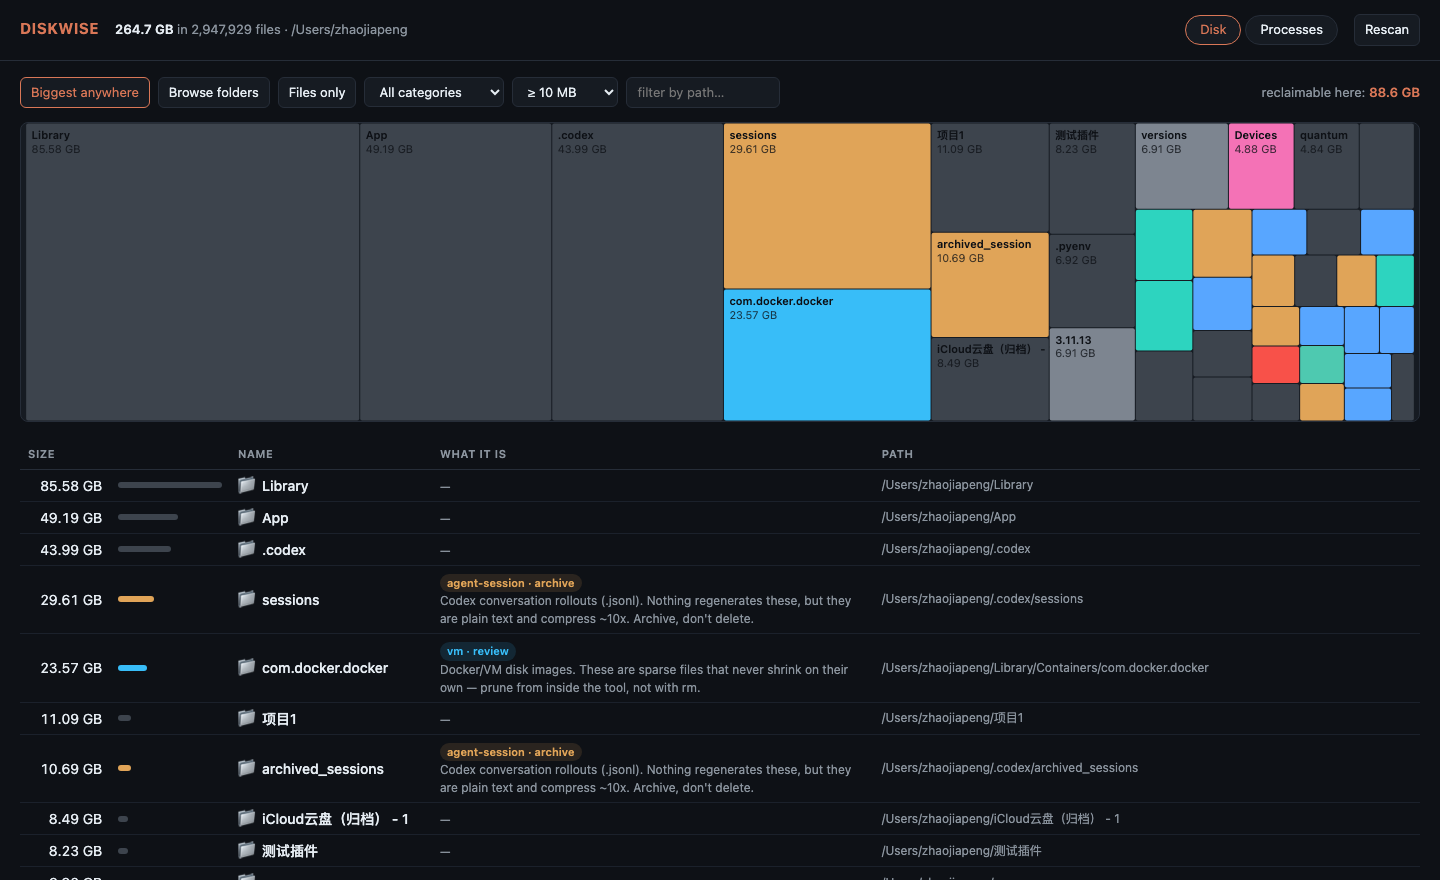
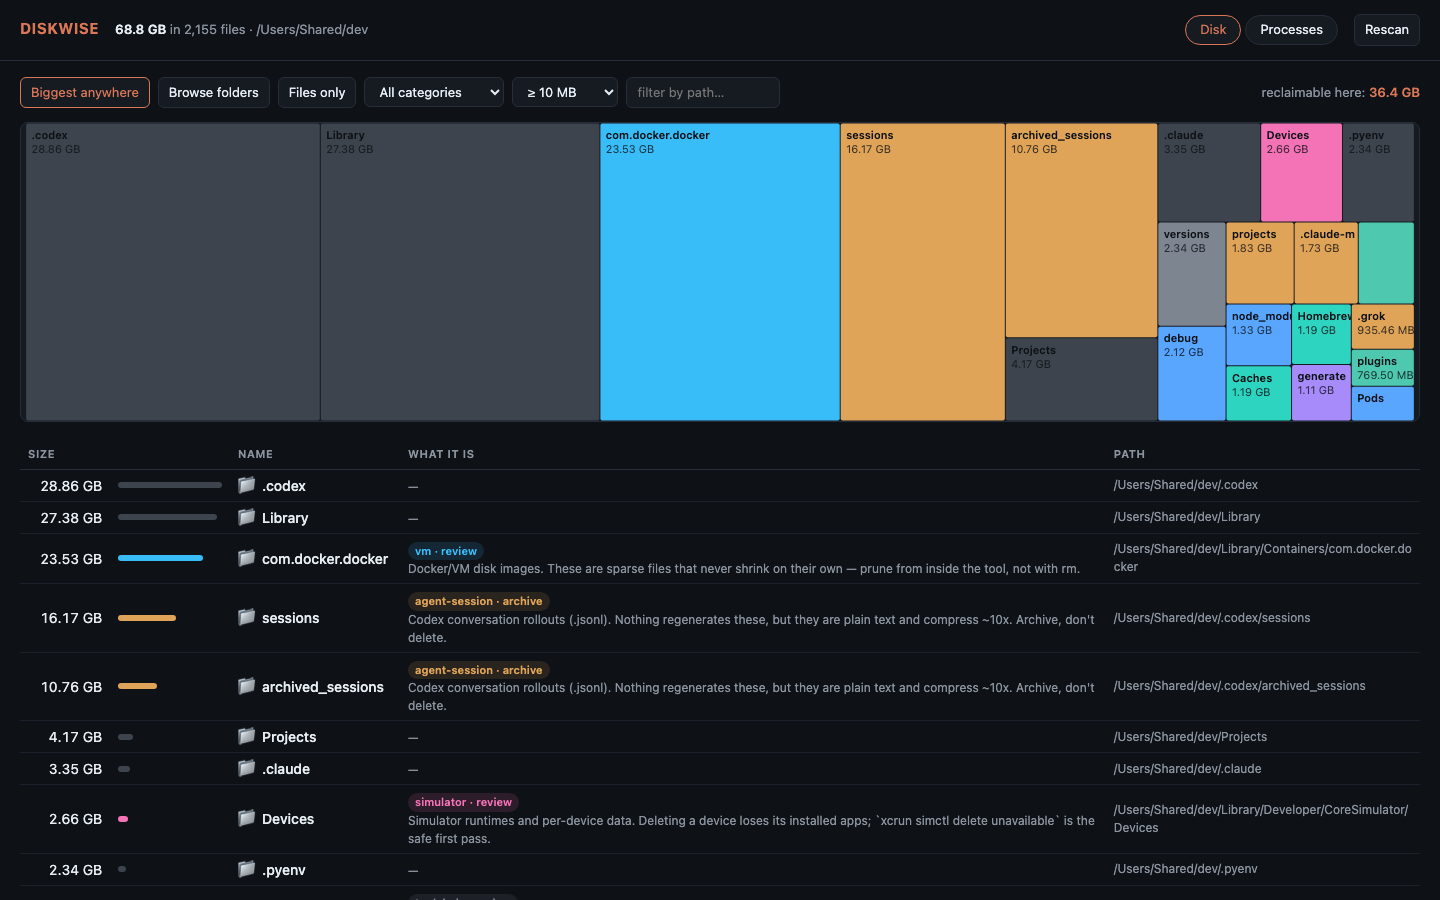
docs: anonymous screenshots, deep-linkable filters
Also fixes a sorting bug the demo tree exposed: a directory and an
equal-sized child could both survive the collapse, showing the same
bytes twice.

diff --git a/web/index.html b/web/index.html
@@ -418,6 +418,17 @@ function humanDur(s) {
   return d ? `${d}d ${h}h` : h ? `${h}h ${m}m` : `${m}m`;
 }
 
+// Deep-linkable views: ?days=3&find=Chrome#processes shares exactly what you see.
+function applyUrlParams() {
+  const q = new URLSearchParams(location.search);
+  if (q.has('find')) { pstate.find = q.get('find'); $('pfind').value = pstate.find; }
+  if (q.has('days')) { pstate.days = +q.get('days'); $('pdays').value = q.get('days'); }
+  if (q.has('mine')) { pstate.mine = q.get('mine') !== 'false'; $('pmine').checked = pstate.mine; }
+  if (q.has('sort')) { pstate.sort = q.get('sort'); }
+  if (q.has('min')) { state.min = +q.get('min'); $('min').value = q.get('min'); }
+  if (q.has('category')) { state.category = q.get('category'); $('category').value = state.category; }
+}
+
 function showTab(which) {
   $('tab-disk').classList.toggle('on', which === 'disk');
   $('tab-proc').classList.toggle('on', which === 'proc');
@@ -459,7 +470,7 @@ let t; $('contains').oninput = e => {
 $('rescan').onclick = async () => { await fetch('/api/rescan', { method: 'POST' }); loadStatus(); };
 window.onresize = () => { load(); if (!$('panel-proc').hidden) renderProcs(); };
 
-loadStatus().then(load);
+loadStatus().then(() => { applyUrlParams(); load(); });
 if (location.hash === '#processes') showTab('proc');
 </script>
 </body>

diff --git a/src/view.rs b/src/view.rs
@@ -79,14 +79,26 @@ pub fn rows(s: &Scan, rules: &Rules, q: &Query) -> Vec<Row> {
         out.retain(|r| r.path.to_string_lossy().to_lowercase().contains(&needle));
     }
     if q.dir.is_none() && !q.files_only && !q.keep_nested {
-        out.sort_by(|a, b| b.size.cmp(&a.size));
+        out.sort_by(by_size_then_depth);
         out = keep_informative(out);
     }
-    out.sort_by(|a, b| b.size.cmp(&a.size));
+    out.sort_by(by_size_then_depth);
     if q.limit > 0 {
         out.truncate(q.limit);
     }
     out
+}
+
+/// Largest first; on a tie the shallower path wins. A directory holding one
+/// child of the same size would otherwise sort arbitrarily, and the collapse
+/// below would keep whichever of the two it happened to see first.
+fn by_size_then_depth(a: &Row, b: &Row) -> std::cmp::Ordering {
+    b.size.cmp(&a.size).then_with(|| {
+        a.path
+            .components()
+            .count()
+            .cmp(&b.path.components().count())
+    })
 }
 
 /// Collapse a nested row into its ancestor only when it adds nothing: same
@@ -202,6 +214,20 @@ mod tests {
         ]);
         let names: Vec<String> = kept.iter().map(|r| r.name.clone()).collect();
         assert_eq!(names, vec![".codex", "sessions", "plugins"]);
+    }
+
+    /// A directory whose single child is the same size must not appear twice.
+    #[test]
+    fn equal_sized_parent_and_child_collapse_to_the_parent() {
+        let rules = Rules::load_default().unwrap();
+        let mut rows = vec![
+            dir_row(&rules, PathBuf::from("/a/b/versions"), 400, 1),
+            dir_row(&rules, PathBuf::from("/a/b"), 400, 1),
+        ];
+        rows.sort_by(by_size_then_depth);
+        let kept = keep_informative(rows);
+        assert_eq!(kept.len(), 1);
+        assert_eq!(kept[0].path, PathBuf::from("/a/b"));
     }
 
     #[test]

diff --git a/README.md b/README.md
@@ -9,6 +9,9 @@ in active use and must not be touched. diskwise does.
 
 ![Disk view](docs/disk.png)
 
+<sub>Screenshots are taken against a synthetic tree with the same shape as a
+real developer home, so nobody's folder names end up in a README.</sub>
+
 ## Why
 
 This started because a laptop hit 93% full and the owner had no idea why. The
